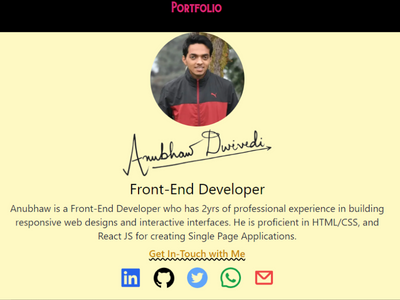
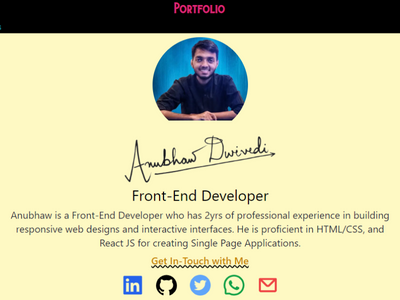
changed images

Changed region(s): [[0.0, 0.09, 1.0, 1.0], [0.42, 0.0, 0.57, 0.06]]

diff --git a/pages/AboutMe.js b/pages/AboutMe.js
@@ -1,8 +1,6 @@
 import React from "react";
 import Image from "next/image";
 import anubhaw from "../public/img/anubhaw-blue.png";
-// import anubhaw_2 from "../public/img/anubhaw-pink.png";
-import anubhaw_1 from "../public/img/anubhaw.jpeg";
 import anubhaw_sign_yellow from "../public/signature/anubhaw_sign_yellow.png";
 import anubhaw_sign_black from "../public/signature/anubhaw_sign_black.png";
 import {
@@ -21,11 +19,7 @@ function AboutMe() {
       <div className=" text-center dark:text-white ">
         <div className="h-20"></div>
         <div className="rounded-[50%] w-48 h-48 mt-2 mx-auto overflow-hidden">
-          {darkMode ? (
-            <Image src={anubhaw} alt="Anubhaw Dwivedi" />
-          ) : (
-            <Image src={anubhaw_1} alt="Anubhaw Dwivedi" />
-          )}
+          <Image src={anubhaw} alt="Anubhaw Dwivedi" />
         </div>
 
         <h1 className="absolute text-5xl py-2 font-medium md:text-6xl z-[-10] ">
